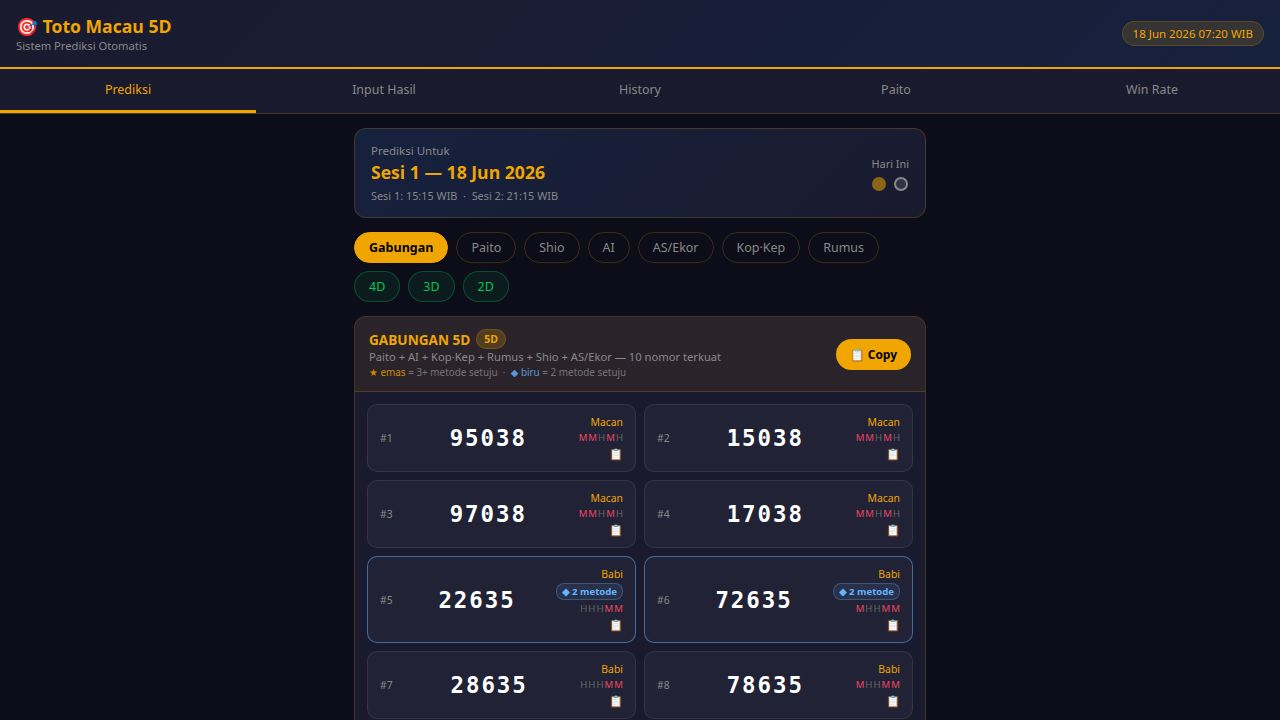
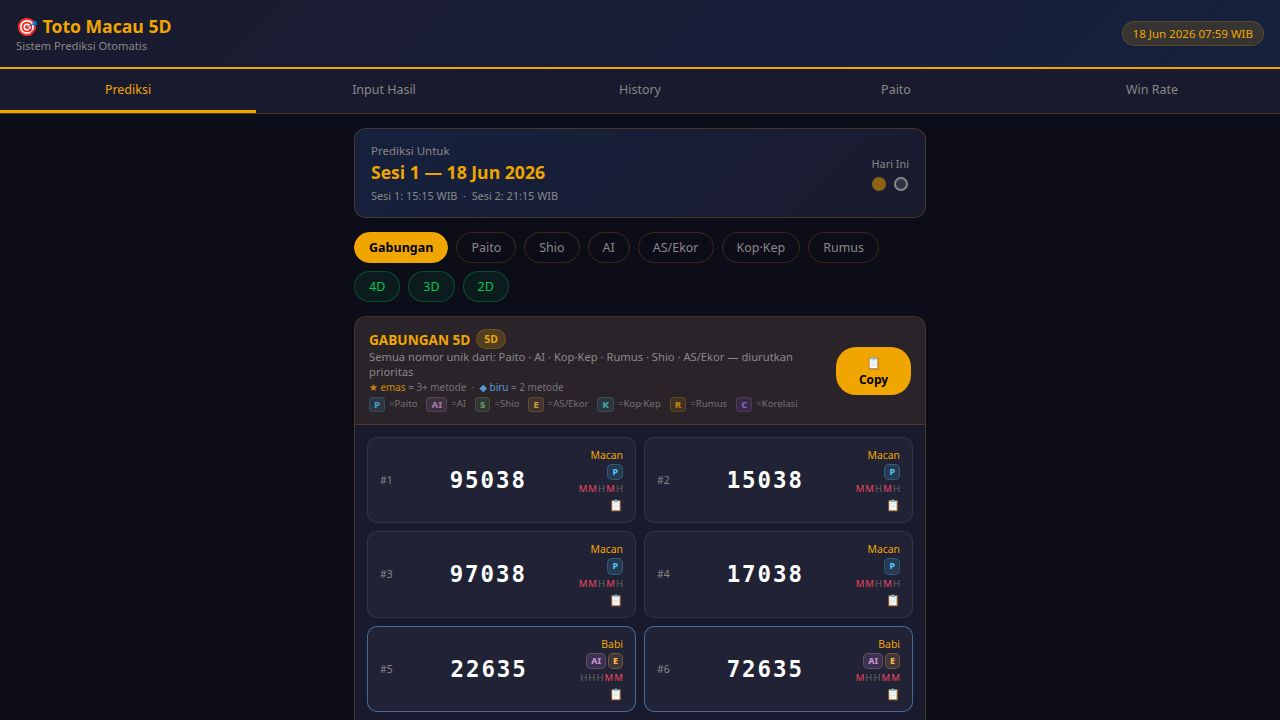
Add legend for method source badges in combined results
Update the 'GABUNGAN 5D' description in index.html to include a legend for the method source badges, explaining the meaning and color-coding for Paito, AI, Shio, AS/Ekor, Kop·Kep, Rumus, and Korelasi.

Replit-Commit-Author: Agent
Replit-Commit-Session-Id: dd75faff-c783-4625-af5b-e86c914758ba
Replit-Commit-Checkpoint-Type: full_checkpoint
Replit-Commit-Event-Id: 9a6cb677-f448-4199-a022-57433e25bc72
Replit-Commit-Screenshot-Url: https://storage.googleapis.com/screenshot-production-us-central1/d849d78a-ea6c-4732-87c7-b86fdbd27240/dd75faff-c783-4625-af5b-e86c914758ba/cWYhkrK
Replit-Helium-Checkpoint-Created: true

Changed region(s): [[0.2812, 0.4583, 0.7188, 1.0], [0.5625, 0.7639, 0.625, 0.8556], [0.3438, 0.7639, 0.4062, 0.8556]]

diff --git a/artifacts/toto-macau/templates/index.html b/artifacts/toto-macau/templates/index.html
@@ -368,7 +368,7 @@ function renderPredictions(data) {
   const numbers = data[method] || [];
 
   const labels = {
-    gabungan: { name: 'GABUNGAN 5D',       desc: 'Semua nomor unik dari: Paito · AI · Kop·Kep · Rumus · Shio · AS/Ekor — diurutkan prioritas<br><span style="font-size:0.62rem;opacity:0.8"><span style="color:var(--accent)">★ emas</span> = 3+ metode setuju &nbsp;·&nbsp; <span style="color:#64b4ff">◆ biru</span> = 2 metode setuju</span>', badge: '5D' },
+    gabungan: { name: 'GABUNGAN 5D',       desc: 'Semua nomor unik dari: Paito · AI · Kop·Kep · Rumus · Shio · AS/Ekor — diurutkan prioritas<br><span style="font-size:0.62rem;opacity:0.8"><span style="color:var(--accent)">★ emas</span> = 3+ metode &nbsp;·&nbsp; <span style="color:#64b4ff">◆ biru</span> = 2 metode</span><br><span style="font-size:0.6rem;opacity:0.75;display:inline-flex;flex-wrap:wrap;gap:4px;margin-top:3px"><span style="background:rgba(79,195,247,0.15);color:#4fc3f7;border:1px solid #4fc3f740;padding:0 4px;border-radius:4px;font-weight:800">P</span>=Paito &nbsp;<span style="background:rgba(206,147,216,0.15);color:#ce93d8;border:1px solid #ce93d840;padding:0 4px;border-radius:4px;font-weight:800">AI</span>=AI &nbsp;<span style="background:rgba(129,199,132,0.15);color:#81c784;border:1px solid #81c78440;padding:0 4px;border-radius:4px;font-weight:800">S</span>=Shio &nbsp;<span style="background:rgba(255,183,77,0.15);color:#ffb74d;border:1px solid #ffb74d40;padding:0 4px;border-radius:4px;font-weight:800">E</span>=AS/Ekor &nbsp;<span style="background:rgba(77,208,225,0.15);color:#4dd0e1;border:1px solid #4dd0e140;padding:0 4px;border-radius:4px;font-weight:800">K</span>=Kop·Kep &nbsp;<span style="background:rgba(240,165,0,0.15);color:#f0a500;border:1px solid #f0a50040;padding:0 4px;border-radius:4px;font-weight:800">R</span>=Rumus &nbsp;<span style="background:rgba(176,106,255,0.15);color:#b06aff;border:1px solid #b06aff40;padding:0 4px;border-radius:4px;font-weight:800">C</span>=Korelasi</span>', badge: '5D' },
     paito:    { name: 'PAITO 5D',           desc: 'Pola warna M/H per posisi + streak detection', badge: '5D' },
     shio:     { name: 'SHIO 5D',            desc: 'Siklus 12 zodiak Tionghoa — due score + frekuensi', badge: '5D' },
     ai:       { name: 'AI 5D',              desc: 'Frekuensi + gap + tren + transisi + pair analysis', badge: '5D' },